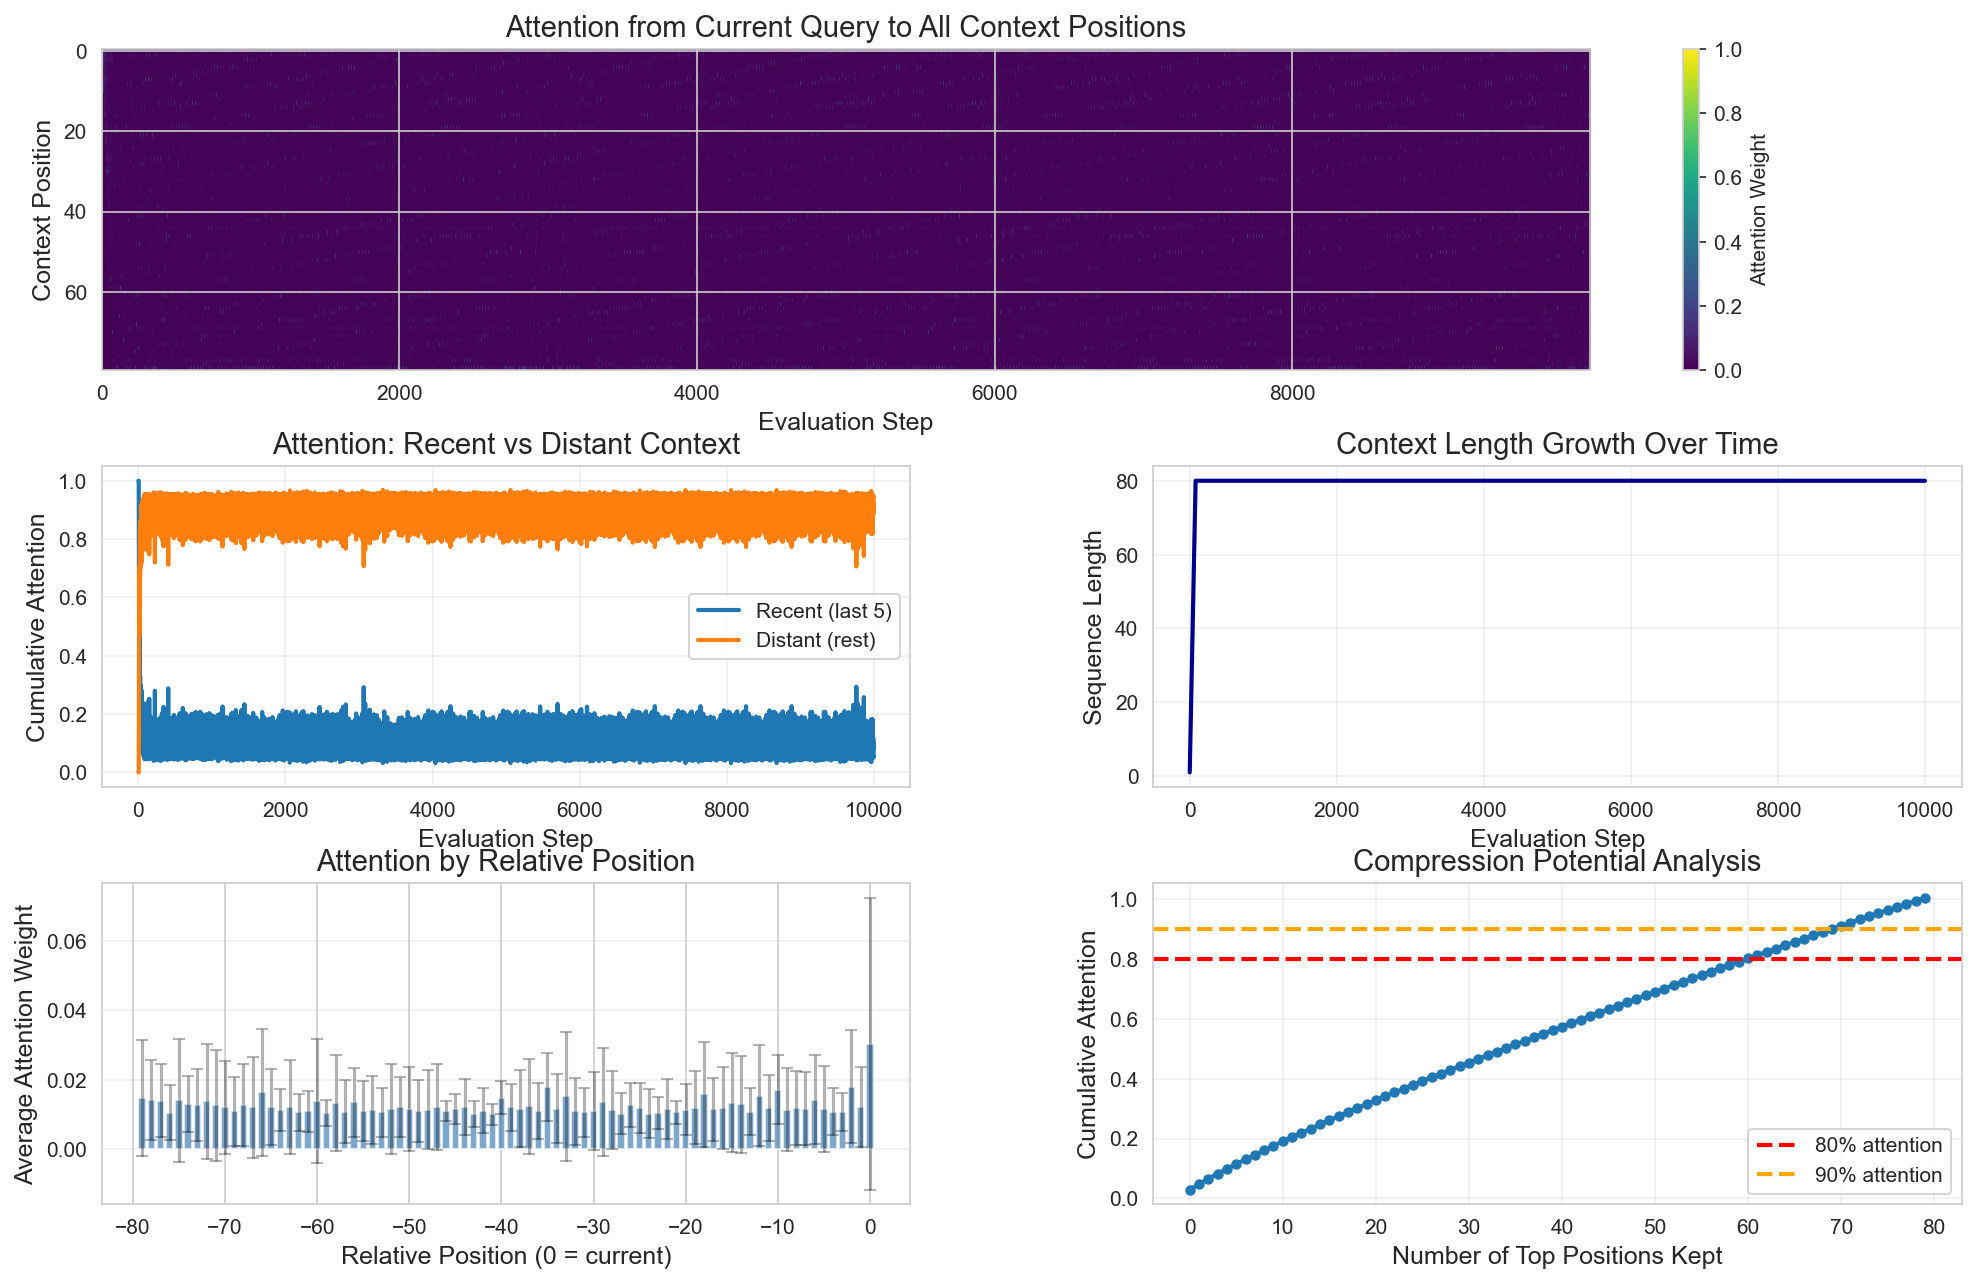
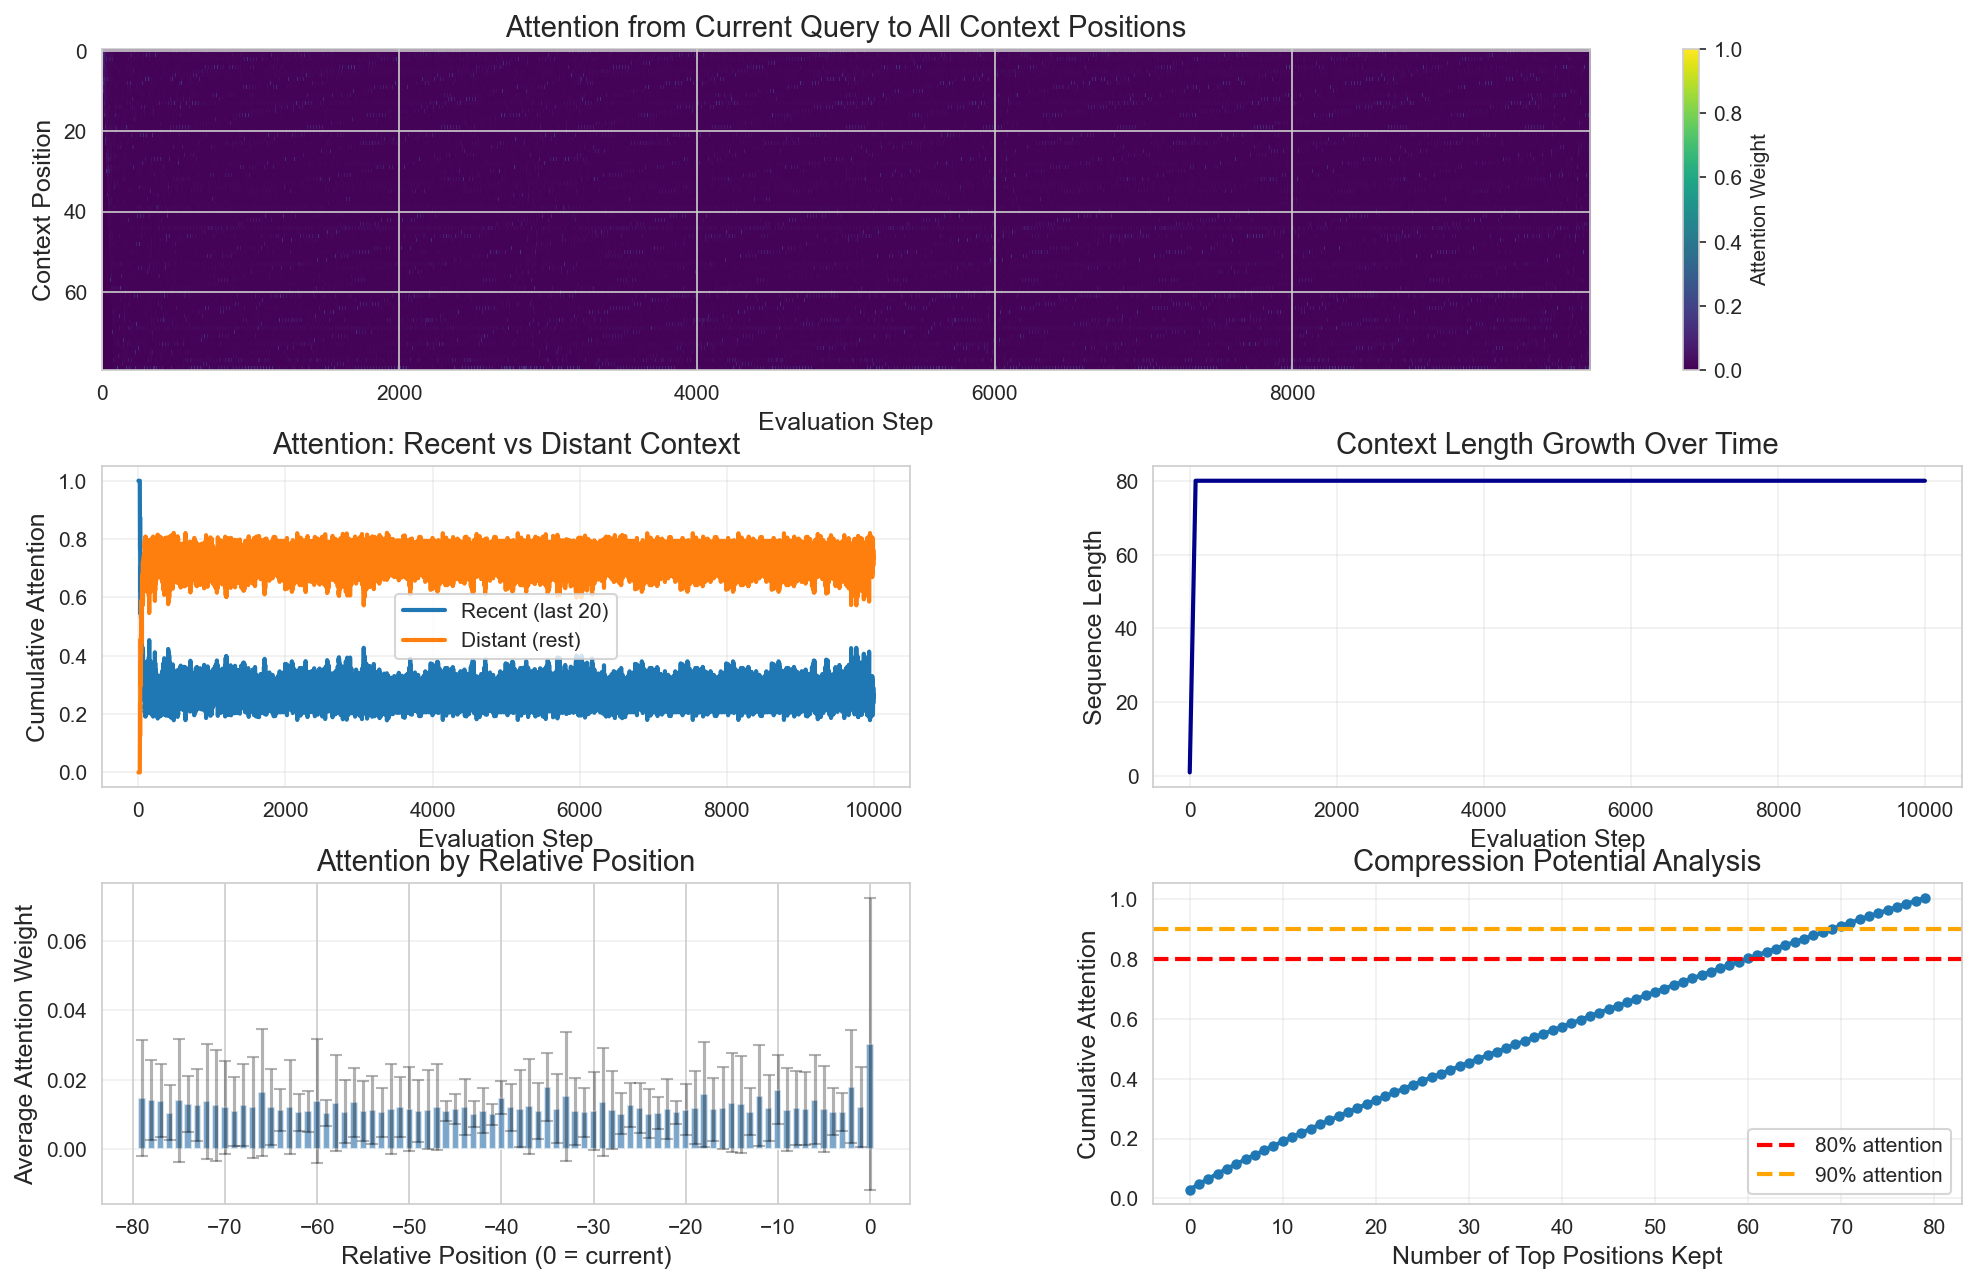
attention analysis

Changed region(s): [[0.0617, 0.3738, 0.4631, 0.5919]]

diff --git a/analyze_attention.py b/analyze_attention.py
@@ -143,15 +143,15 @@ def visualize_attention_to_positions(attention_history, output_dir):
     distant_attention = []
     
     for i, attn in enumerate(attention_to_positions):
-        if len(attn) > 5:
-            recent_attention.append(attn[-5:].sum())
-            distant_attention.append(attn[:-5].sum())
+        if len(attn) > 20:
+            recent_attention.append(attn[-20:].sum())
+            distant_attention.append(attn[:-20].sum())
         else:
             recent_attention.append(attn.sum())
             distant_attention.append(0)
     
     steps = range(len(recent_attention))
-    ax2.plot(steps, recent_attention, label='Recent (last 5)', linewidth=2)
+    ax2.plot(steps, recent_attention, label='Recent (last 20)', linewidth=2)
     ax2.plot(steps, distant_attention, label='Distant (rest)', linewidth=2)
     ax2.set_xlabel('Evaluation Step', fontsize=12)
     ax2.set_ylabel('Cumulative Attention', fontsize=12)
